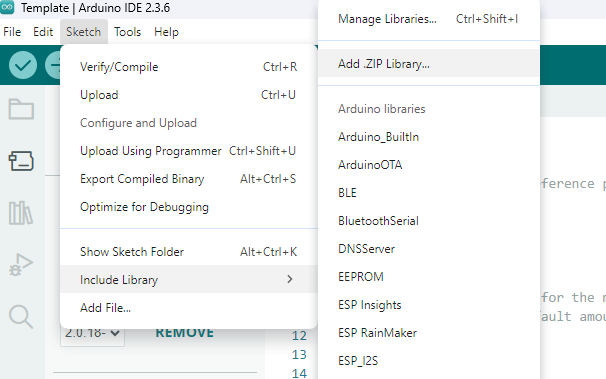
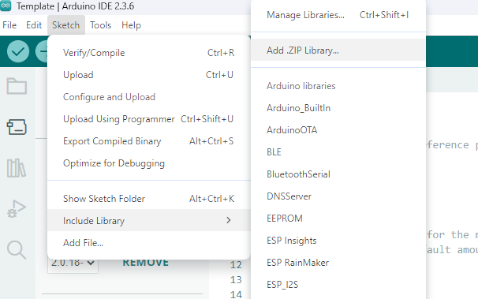
README: update image sizes

diff --git a/README.md b/README.md
@@ -44,7 +44,7 @@ well. Our product is also compatible for use on Windows, Linux, and Mac.
 - Go to **Tools > Boards > Boards Manager**
 - Search and install `esp32` by **Espressif Systems**
 
-![Installing the board manager](/docs/images/Board_library.png){width=60%}
+![Installing the board manager](/docs/images/Board_library.png)
 
 ### 2. Set Board and Ports
 - Plug in the board (you may need to install USB drivers)
@@ -52,7 +52,7 @@ well. Our product is also compatible for use on Windows, Linux, and Mac.
 - In the pop up window, search for `Adafruit ESP32 Feather` and select it along
 with `COMX` for port where `X` is a number 0-6
 
-![The other board and port drop down](/docs/images/Confirm_board.png){width=60%}
+![The other board and port drop down](/docs/images/Confirm_board.png)
 
 ### 3. Add Libraries
 Download the zip files of Vibrosonics and each dependency (**Code > Download ZIP**):
@@ -62,7 +62,7 @@ Download the zip files of Vibrosonics and each dependency (**Code > Download ZIP
 
 Import into Arduino via: \
 **Sketch > Include Library> Add .ZIP library (repeat for each zip)**
-![Adding personal libraries](/docs/images/Add_library.png){width=40%}
+![Adding personal libraries](/docs/images/Add_library.png)
 
 ### 4. Upload a Sketch
 You should be ready to use the example sketches or create your own! To upload a
@@ -71,7 +71,7 @@ sketch to the Vibrosonics hardware:
 - Open your own sketch or one of our examples from **File > Examples >
 Vibrosonics > \[Example Name]**
 - Press the upload (➜) in the top left to compile and upload your sketch
-![Uploading a sketch to the arduino](/docs/images/Upload_sketch.png){width=60%}
+![Uploading a sketch to the arduino](/docs/images/Upload_sketch.png)
 
 ## Library Architecture
 The Vibrosonics library aims to streamline three processes to enable
